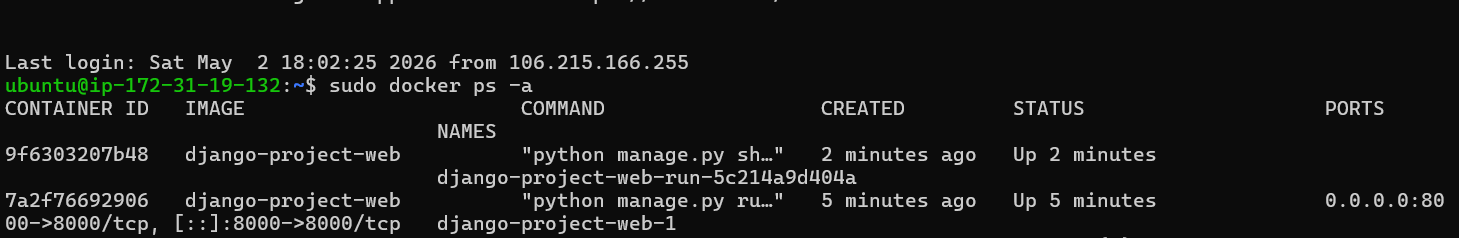
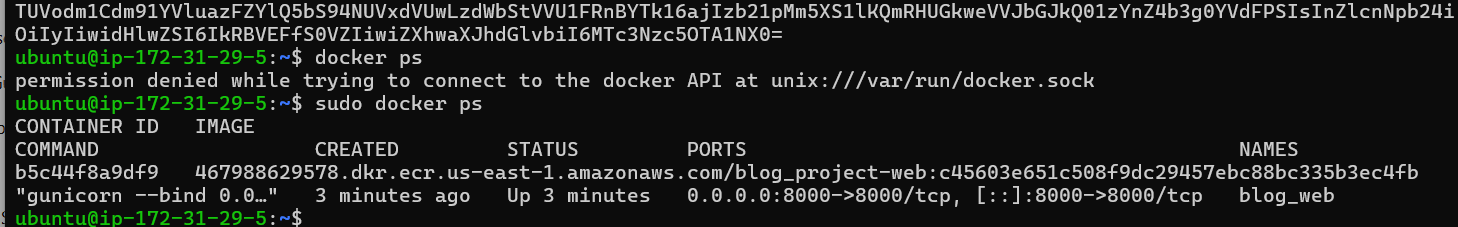
Add screenshots for submission

Changed region(s): [[0.0, 0.0, 1.0, 1.0], [0.8951, 0.4009, 0.9568, 0.4934]]

diff --git a/README.md b/README.md
@@ -1,13 +1,10 @@
 ## Screenshots
 
 1. Docker containers running:
+![Docker](images/docker-containers-running.png)
 
-![Docker containers running](images/docker-containers-running.png)
+2. Django app homepage (localhost):
+![Local](images/django-homepage-local.png)
 
-2. Django app homepage:
-
-![Django app homepage](images/django-homepage.png)
-
-3. Database connection successful:
-
-![Database connection](images/database-connection.png)
+3. Django app homepage (endpoint):
+![Endpoint](images/django-homepage-endpoint.png)
